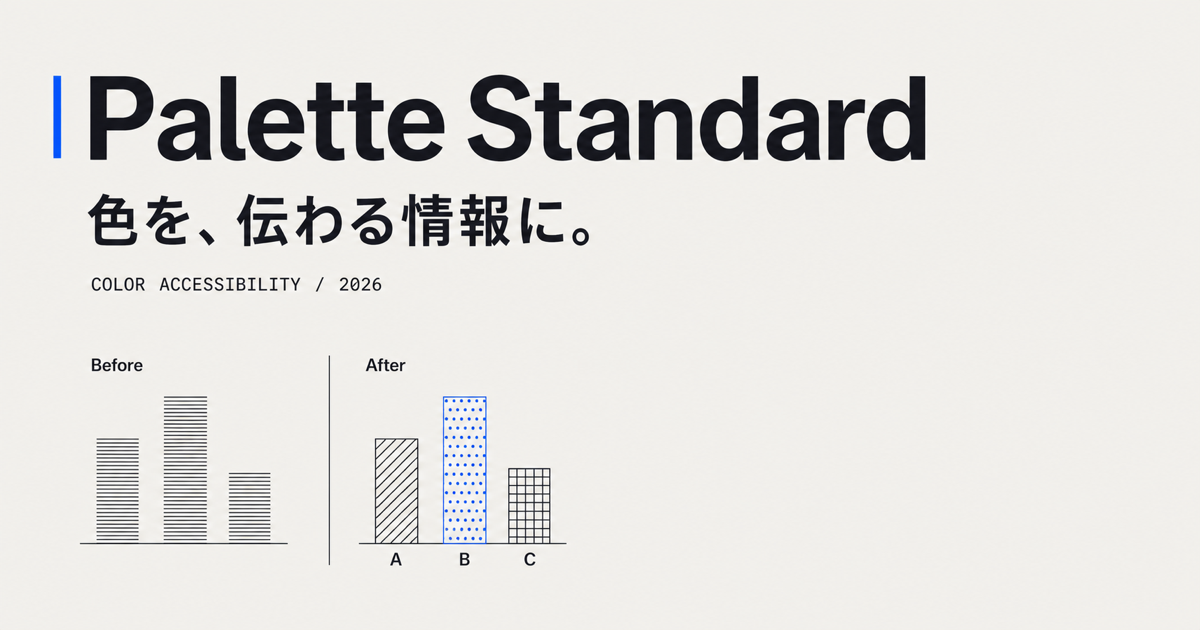
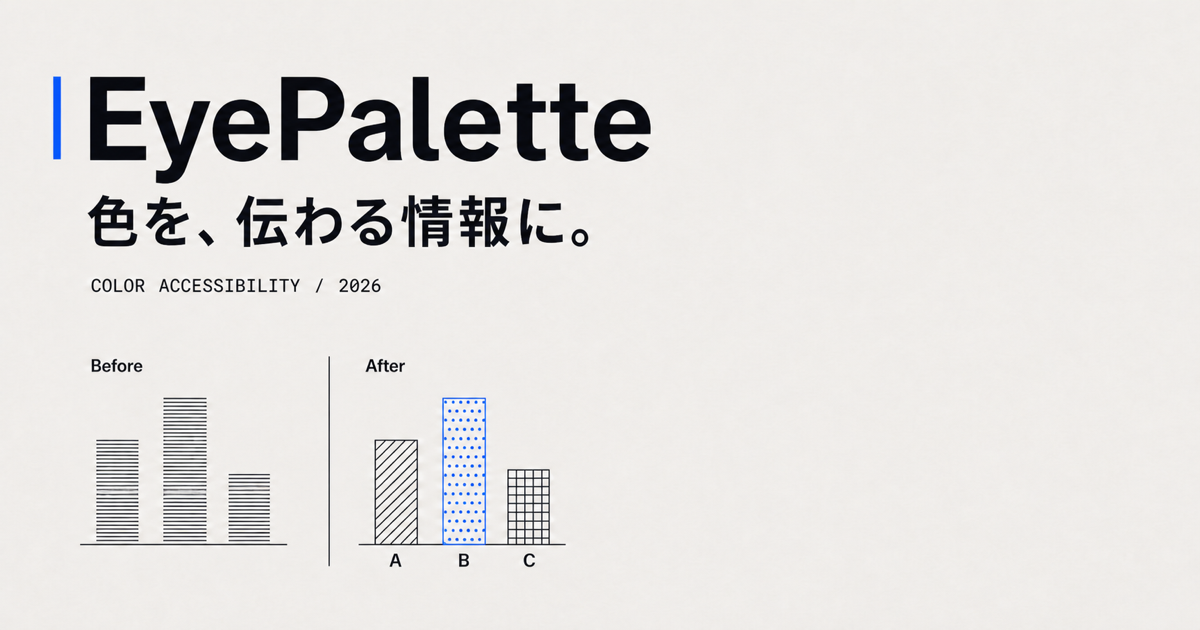
Rename product to EyePalette

diff --git a/app/palette-app.tsx b/app/palette-app.tsx
@@ -144,10 +144,11 @@ function cudTargetColor(hue: number, lightness: number, type: VisionType) {
 }
 
 function correctColorForVision(r: number, g: number, b: number, type: VisionType) {
+  if (type === 'C') return { r, g, b };
   const { h, s, l } = rgbToHsl(r, g, b);
   if (s <= 0.2) return { r, g, b };
   const target = cudTargetColor(h, l, type);
-  const mix = type === 'C' ? 0.42 : Math.min(0.76, 0.32 + s * 0.46);
+  const mix = Math.min(0.76, 0.32 + s * 0.46);
   return {
     r: clamp(r * (1 - mix) + target.r * mix),
     g: clamp(g * (1 - mix) + target.g * mix),
@@ -290,6 +291,7 @@ export default function Home() {
     const data = output.data;
     let affected = 0;
 
+    const effectiveMode: BridgeMode = nextVision === 'C' ? 'simulate' : nextBridgeMode;
     const fixStyle = nextVision === 'A' ? 'pattern' : nextFixStyle;
     for (let pixel = 0; pixel < data.length; pixel += 4) {
         const r = source.data[pixel];
@@ -298,7 +300,7 @@ export default function Home() {
         let nr: number;
         let ng: number;
         let nb: number;
-        if (nextBridgeMode === 'fix') {
+        if (effectiveMode === 'fix') {
           const { s } = rgbToHsl(r, g, b);
           const useColor = fixStyle === 'color' || fixStyle === 'both';
           const usePattern = fixStyle === 'pattern' || fixStyle === 'both';
@@ -330,7 +332,7 @@ export default function Home() {
         data[pixel + 2] = nb;
       }
 
-    if (nextBridgeMode === 'fix' && nextPreset === 'education') {
+    if (effectiveMode === 'fix' && nextPreset === 'education') {
       const mask = new Uint8Array(source.width * source.height);
       for (let pixel = 0; pixel < data.length; pixel += 4) {
         const { h, s, l } = rgbToHsl(source.data[pixel], source.data[pixel + 1], source.data[pixel + 2]);
@@ -505,7 +507,7 @@ export default function Home() {
     const canvas = resultCanvasRef.current;
     if (!canvas) return;
     const link = document.createElement('a');
-    link.download = 'palette-standard-color-bridge.png';
+    link.download = 'eyepalette-color-bridge.png';
     link.href = canvas.toDataURL('image/png');
     link.click();
   }
@@ -526,9 +528,9 @@ export default function Home() {
       <a className="skip-link" href="#workspace">ツールへ移動</a>
 
       <header className="site-header" id="top">
-        <a className="brand" href="#workspace" aria-label="Palette Standard ツールへ">
+        <a className="brand" href="#workspace" aria-label="EyePalette ツールへ">
           <span className="brand-mark" aria-hidden="true"><i /><i /><i /></span>
-          <span>Palette <b>Standard</b></span>
+          <span>Eye<b>Palette</b></span>
         </a>
         <p className="header-status"><LockKeyhole aria-hidden="true" /> 画像・映像は端末内で処理</p>
       </header>
@@ -602,14 +604,16 @@ export default function Home() {
                         aria-pressed={vision === type}
                         onClick={() => {
                           setVision(type);
-                          processResult(type, bridgeMode, type === 'A' ? 'pattern' : bridgeFixStyle);
+                          const nextMode: BridgeMode = type === 'C' ? 'simulate' : bridgeMode;
+                          if (type === 'C') setBridgeMode('simulate');
+                          processResult(type, nextMode, type === 'A' ? 'pattern' : bridgeFixStyle);
                         }}
                       >
                         <b>{type}</b><span>{visionShortLabels[type]}</span>
                       </button>
                     ))}
                   </div>
-                  <p className="control-note">C型は比較用。P・D・T・A型が主な色覚特性の分類です。A型は参考表示です。</p>
+                  <p className="control-note">C型は元画像との比較用で、補正は行いません。P・D・T・A型が主な色覚特性の分類です。A型は参考表示です。</p>
                 </fieldset>
                 <fieldset className="control-group">
                   <legend>表示モード</legend>
@@ -617,12 +621,14 @@ export default function Home() {
                     <Eye aria-hidden="true" /> 見え方を確認
                     {bridgeMode === 'simulate' && <Check aria-label="選択中" />}
                   </button>
-                  <button className="wide-option" type="button" aria-pressed={bridgeMode === 'fix'} onClick={() => { setBridgeMode('fix'); processResult(vision, 'fix'); }}>
-                    <WandSparkles aria-hidden="true" /> {activeVisionName}向けに補正
-                    {bridgeMode === 'fix' && <Check aria-label="選択中" />}
-                  </button>
+                  {vision !== 'C' && (
+                    <button className="wide-option" type="button" aria-pressed={bridgeMode === 'fix'} onClick={() => { setBridgeMode('fix'); processResult(vision, 'fix'); }}>
+                      <WandSparkles aria-hidden="true" /> {activeVisionName}向けに補正
+                      {bridgeMode === 'fix' && <Check aria-label="選択中" />}
+                    </button>
+                  )}
                 </fieldset>
-                {bridgeMode === 'fix' && (
+                {vision !== 'C' && bridgeMode === 'fix' && (
                   <fieldset className="control-group">
                     <legend>補正方法</legend>
                     {(vision === 'A' ? (['pattern'] as BridgeFixStyle[]) : (Object.keys(bridgeFixLabels) as BridgeFixStyle[])).map((style) => (

diff --git a/app/layout.tsx b/app/layout.tsx
@@ -3,23 +3,23 @@ import './globals.css';
 
 export const metadata: Metadata = {
   metadataBase: new URL('https://yuka-718.github.io'),
-  title: 'Palette Standard｜色を、伝わる情報に。',
+  title: 'EyePalette｜色を、伝わる情報に。',
   description:
     '色覚多様性に配慮し、画像の見え方を確認して、色・模様・縁取りで補正できるアクセシビリティ・ツール。',
   openGraph: {
-    title: 'Palette Standard｜色を、伝わる情報に。',
+    title: 'EyePalette｜色を、伝わる情報に。',
     description: '画像の見え方を確認し、色・模様・縁取りで識別しやすい形へ補正。',
-    url: 'https://yuka-718.github.io/palette-standard/',
-    siteName: 'Palette Standard',
+    url: 'https://yuka-718.github.io/EyePalette/',
+    siteName: 'EyePalette',
     locale: 'ja_JP',
     type: 'website',
-    images: [{ url: '/palette-standard/og.png', width: 1200, height: 630, alt: 'Palette Standard — 色を、伝わる情報に。' }],
+    images: [{ url: '/EyePalette/og.png', width: 1200, height: 630, alt: 'EyePalette — 色を、伝わる情報に。' }],
   },
   twitter: {
     card: 'summary_large_image',
-    title: 'Palette Standard｜色を、伝わる情報に。',
+    title: 'EyePalette｜色を、伝わる情報に。',
     description: '画像の見え方を確認し、色・模様・縁取りで識別しやすい形へ補正。',
-    images: ['/palette-standard/og.png'],
+    images: ['/EyePalette/og.png'],
   },
 };
 

diff --git a/next.config.ts b/next.config.ts
@@ -4,7 +4,7 @@ const isGitHubPages = process.env.GITHUB_ACTIONS === 'true';
 
 const nextConfig: NextConfig = {
   output: 'export',
-  assetPrefix: isGitHubPages ? '/palette-standard' : '',
+  assetPrefix: isGitHubPages ? '/EyePalette' : '',
   trailingSlash: true,
 };
 

diff --git a/README.md b/README.md
@@ -1,19 +1,19 @@
-# Palette Standard
+# EyePalette
 
 **「色のバリアフリーを、すべての人へ」**
 
-Palette Standard は、色覚多様性を持つ人とクリエイター双方の「色の障壁」を、ブラウザだけで検出から解決まで支援するアクセシビリティ・プラットフォームです。
+EyePalette は、色覚多様性を持つ人とクリエイター双方の「色の障壁」を、ブラウザだけで検出から解決まで支援するアクセシビリティ・プラットフォームです。
 
 ## 2つのコア機能
 
-- **Color Bridge** — 画像のC型・P型・D型・T型・A型参考表示と、色・模様による補正。教材・黒板向けプリセットでは赤系の強調箇所へ白い縁を追加
+- **Color Bridge** — C型で元画像を比較し、P型・D型・T型・A型の見え方を参考表示。P・D・T・A型向けに色・模様で補正し、教材・黒板向けプリセットでは赤系の強調箇所へ白い縁を追加
 - **Color Lens** — カメラ中央の色を端末内で読み取り、日本語の色名・HEX・RGBを表示
 
 画像処理は HTML5 Canvas API で端末内に完結し、画像をサーバーへ送信しません。
 
 ## 色覚タイプの表記
 
-CUDOの呼称を参考に、C型（一般色覚・比較用）、P型、D型、T型、A型を表示します。P・D・T・A型が色覚特性の主な分類で、A型は単純な白黒表示と同一ではないため参考表示としています。同じ型でも程度や見え方には個人差があります。
+CUDOの呼称を参考に、C型（一般色覚・比較用）、P型、D型、T型、A型を表示します。C型は元画像との比較専用で補正は行いません。P・D・T・A型が色覚特性の主な分類で、A型は単純な白黒表示と同一ではないため参考表示としています。同じ型でも程度や見え方には個人差があります。
 
 ## ローカル起動
 
